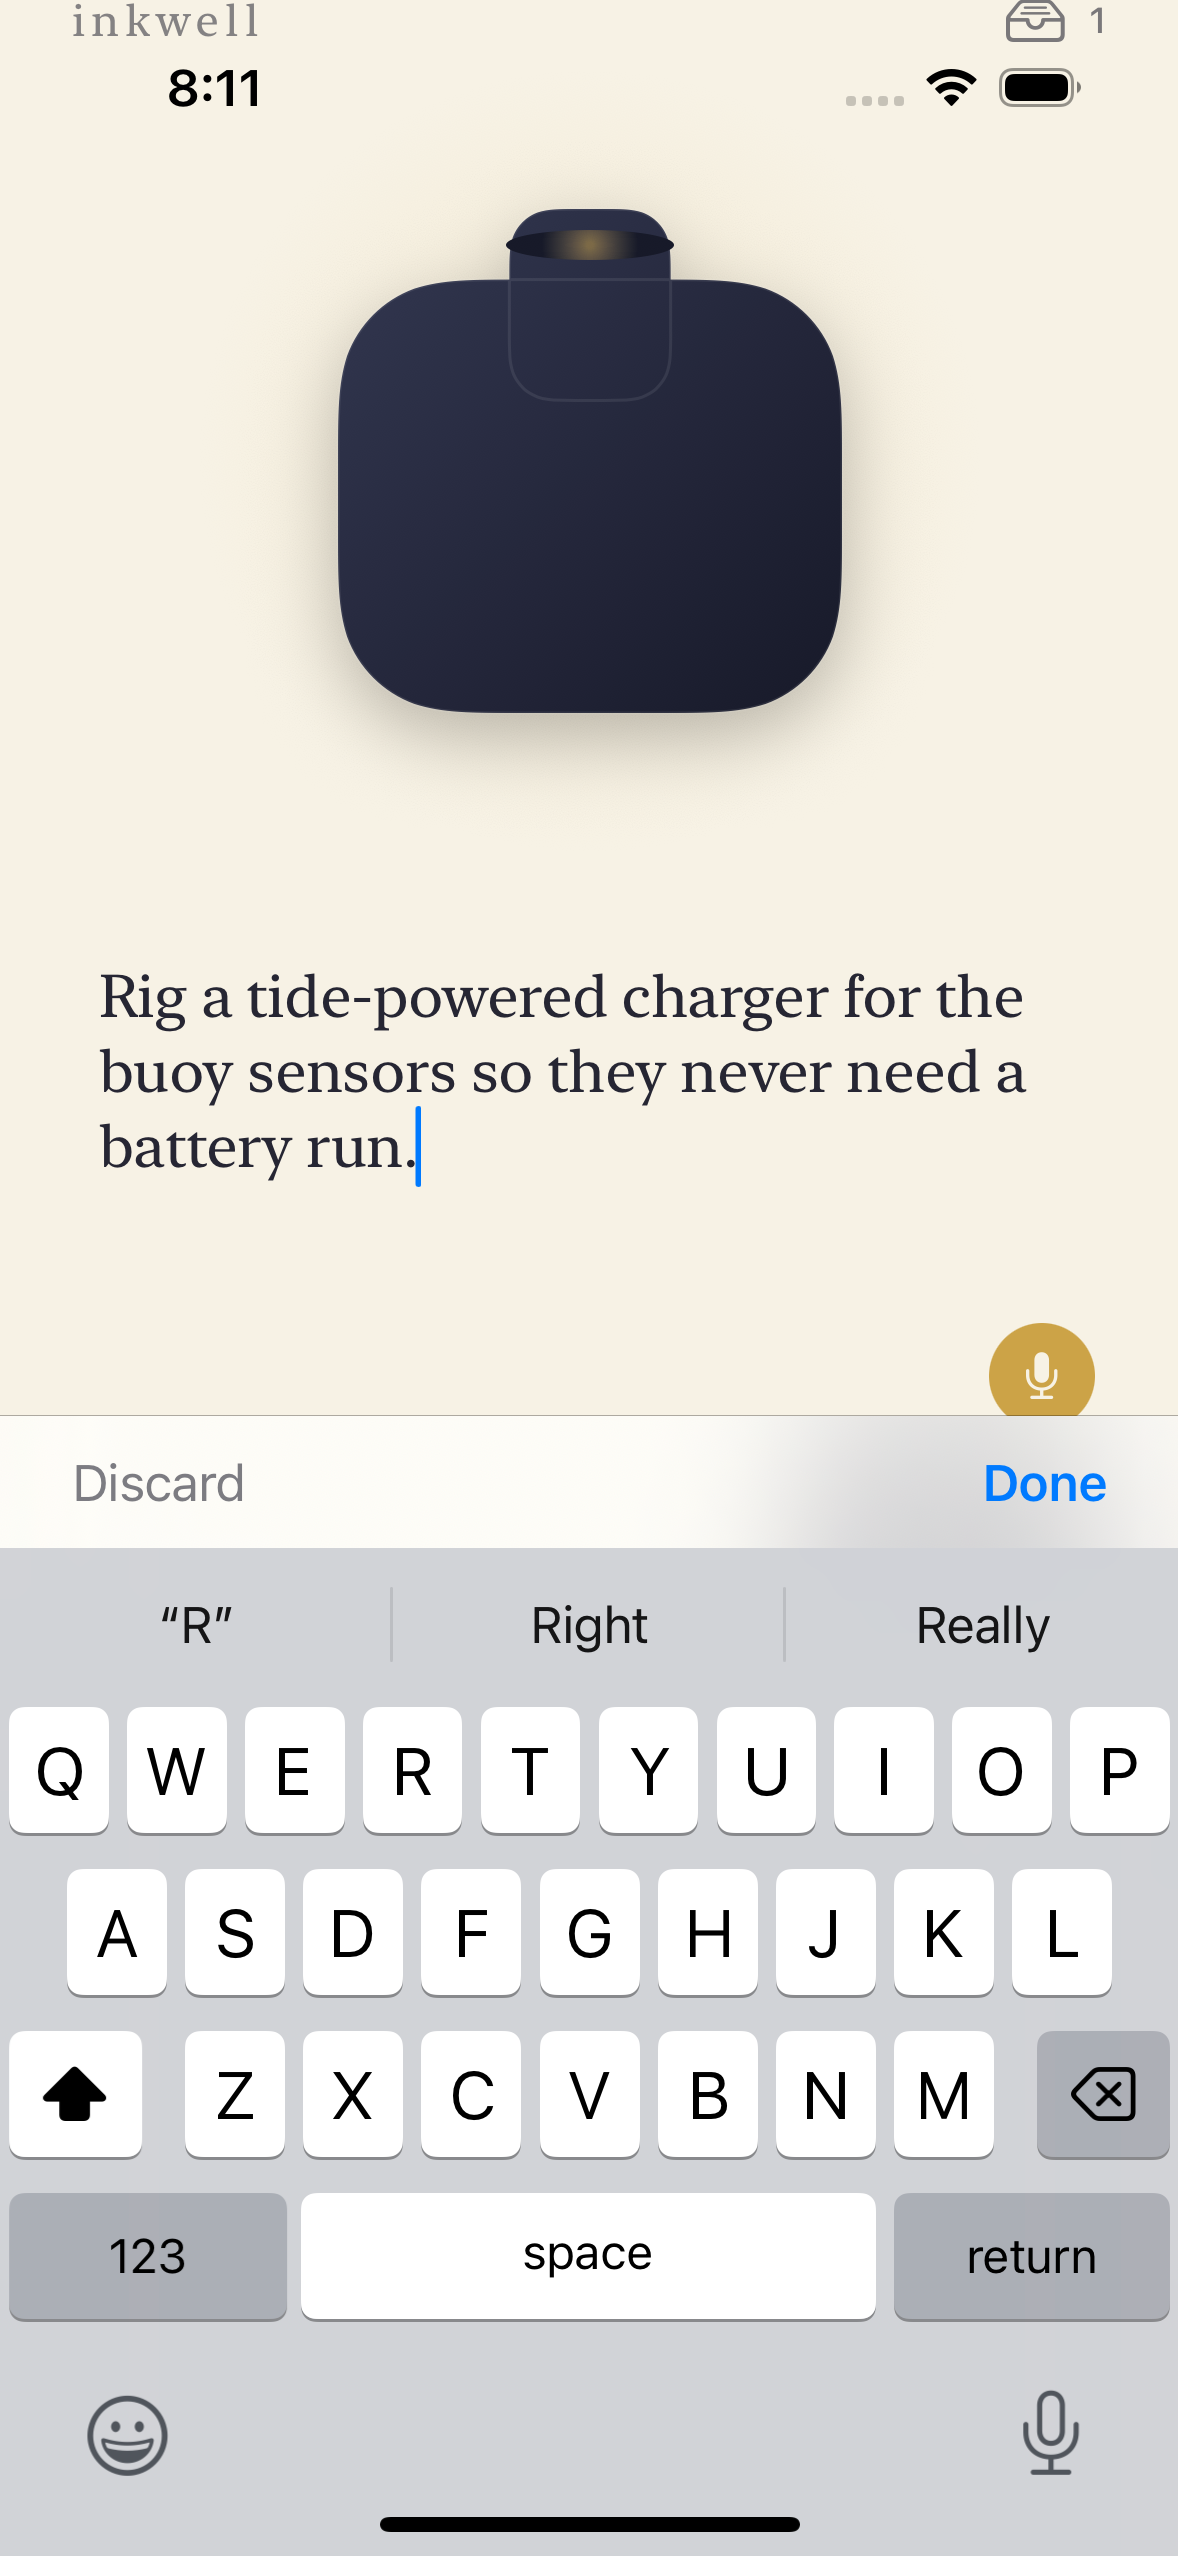
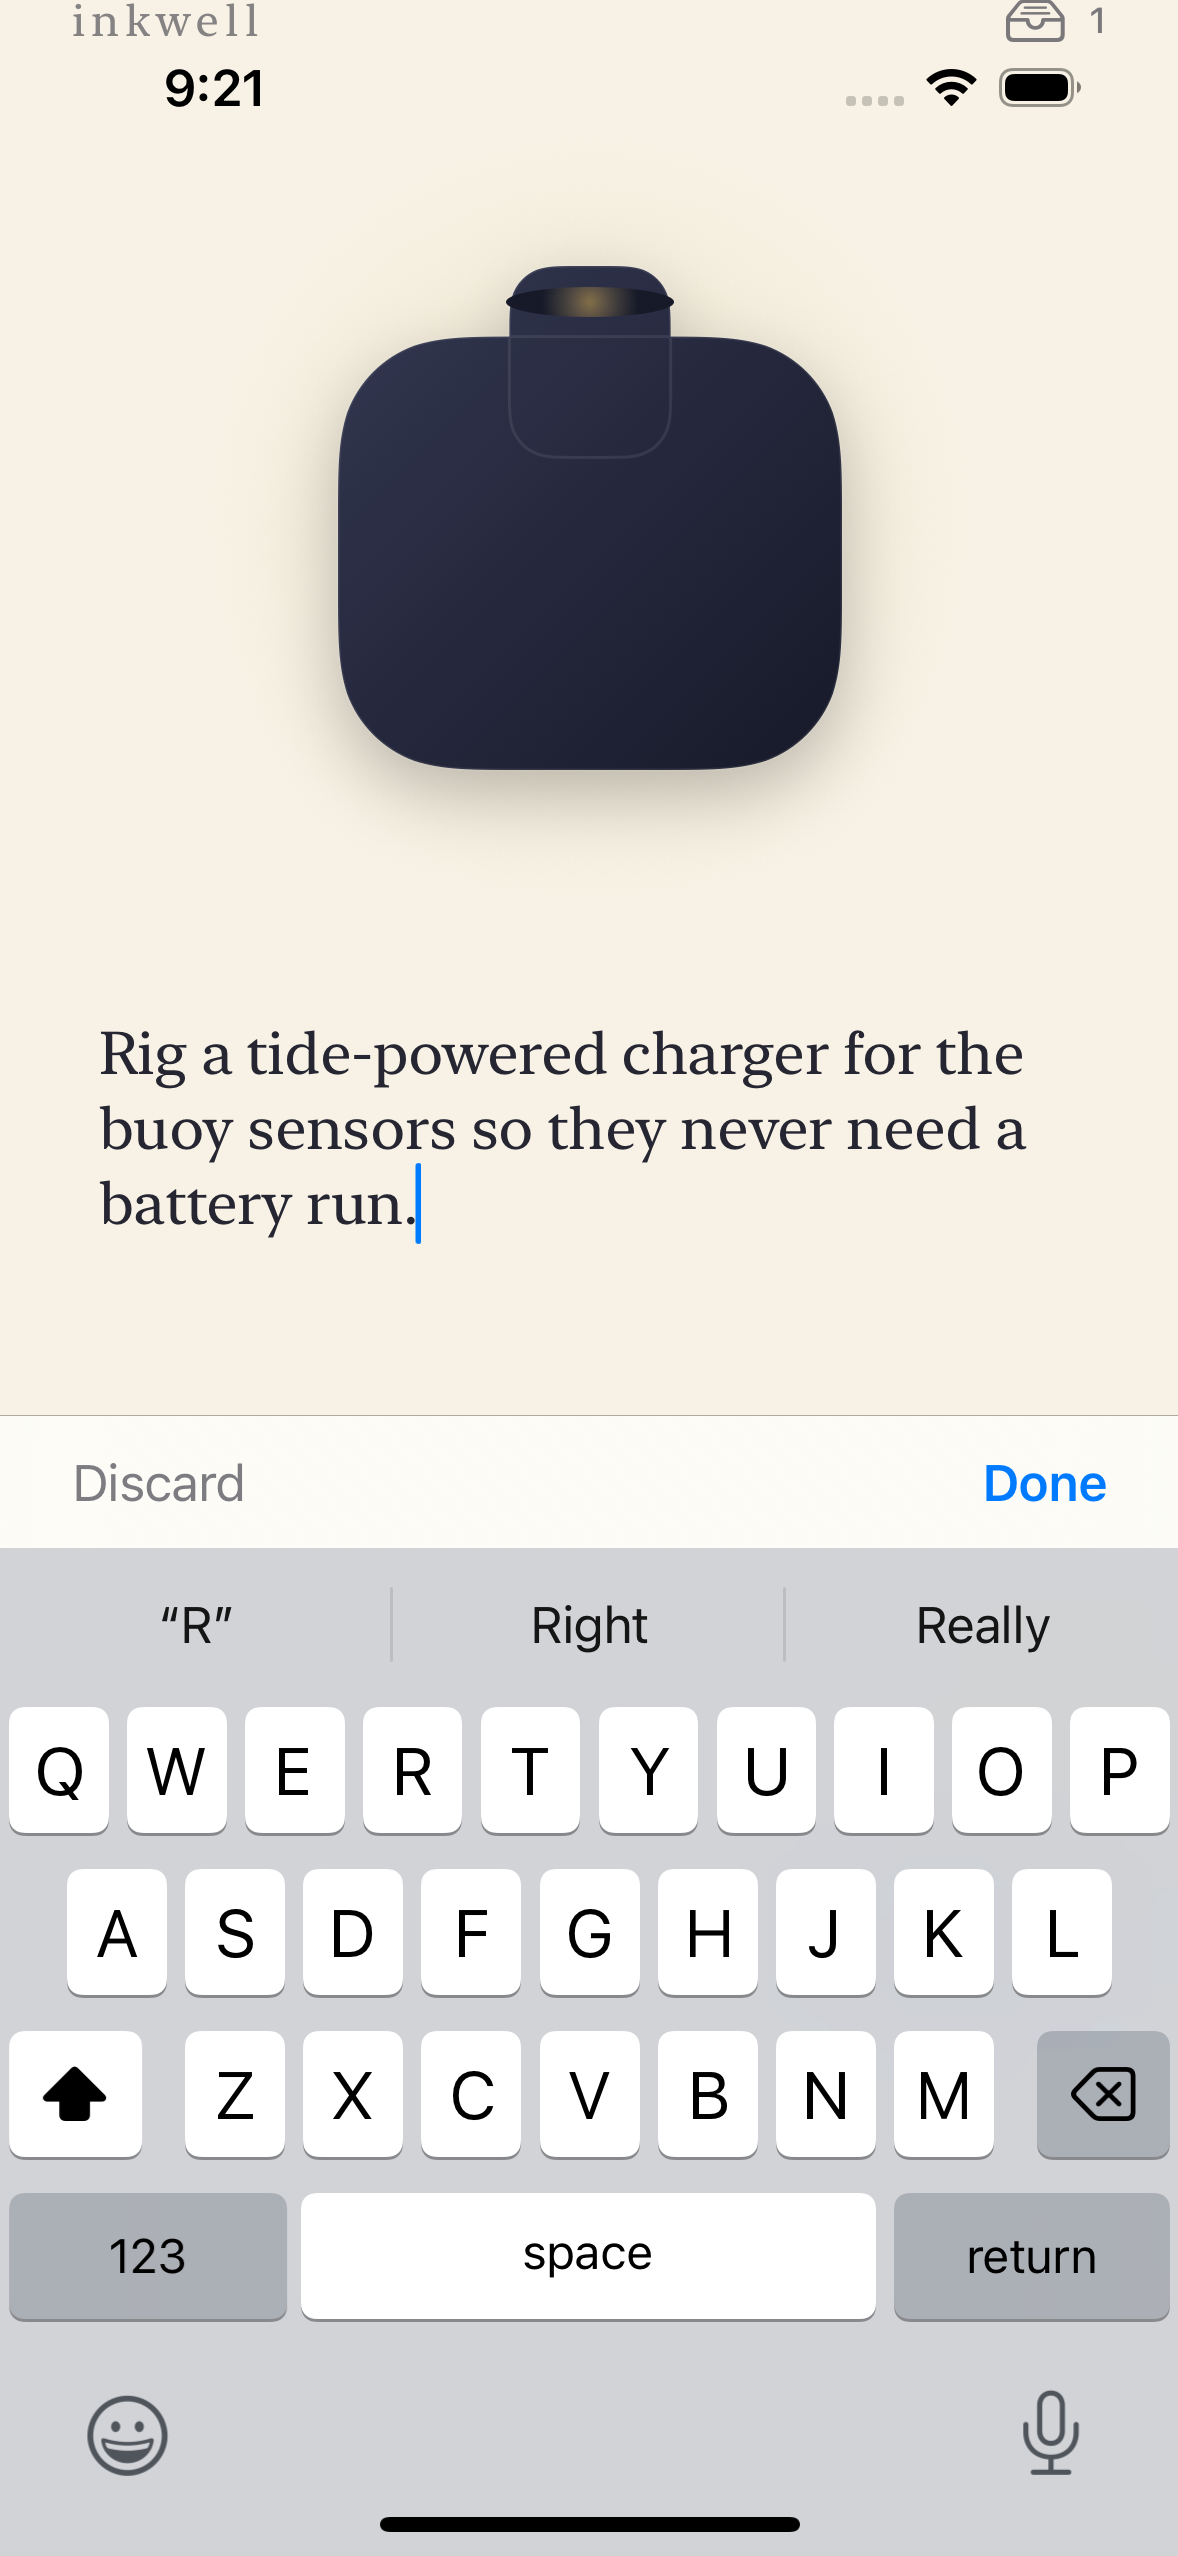
Fix header colliding with the status bar when the keyboard is up
SwiftUI's automatic keyboard avoidance was shifting the whole capture
screen upward while editing, pushing the wordmark and tray icon above
the safe area into the clock/wifi/battery row. The keyboard toolbar
accessory already keeps Done reachable, so the screen doesn't need
that automatic shift - ignoresSafeArea(.keyboard, edges: .bottom)
stops it. Refreshed the capture-flow screenshots to match.

diff --git a/ios/Inkwell/Capture/CaptureView.swift b/ios/Inkwell/Capture/CaptureView.swift
@@ -45,6 +45,12 @@ struct CaptureView: View {
                 confirmationToast
             }
         }
+        // The keyboard toolbar accessory (see the .editing case below) keeps
+        // Done reachable without SwiftUI's automatic keyboard avoidance -
+        // that avoidance was shifting this whole layout upward when the
+        // keyboard appeared, pushing the header above the safe area and
+        // into the status bar.
+        .ignoresSafeArea(.keyboard, edges: .bottom)
         .alert("Inkwell needs your voice", isPresented: $viewModel.authorizationDenied) {
             Button("OK", role: .cancel) {}
         } message: {
